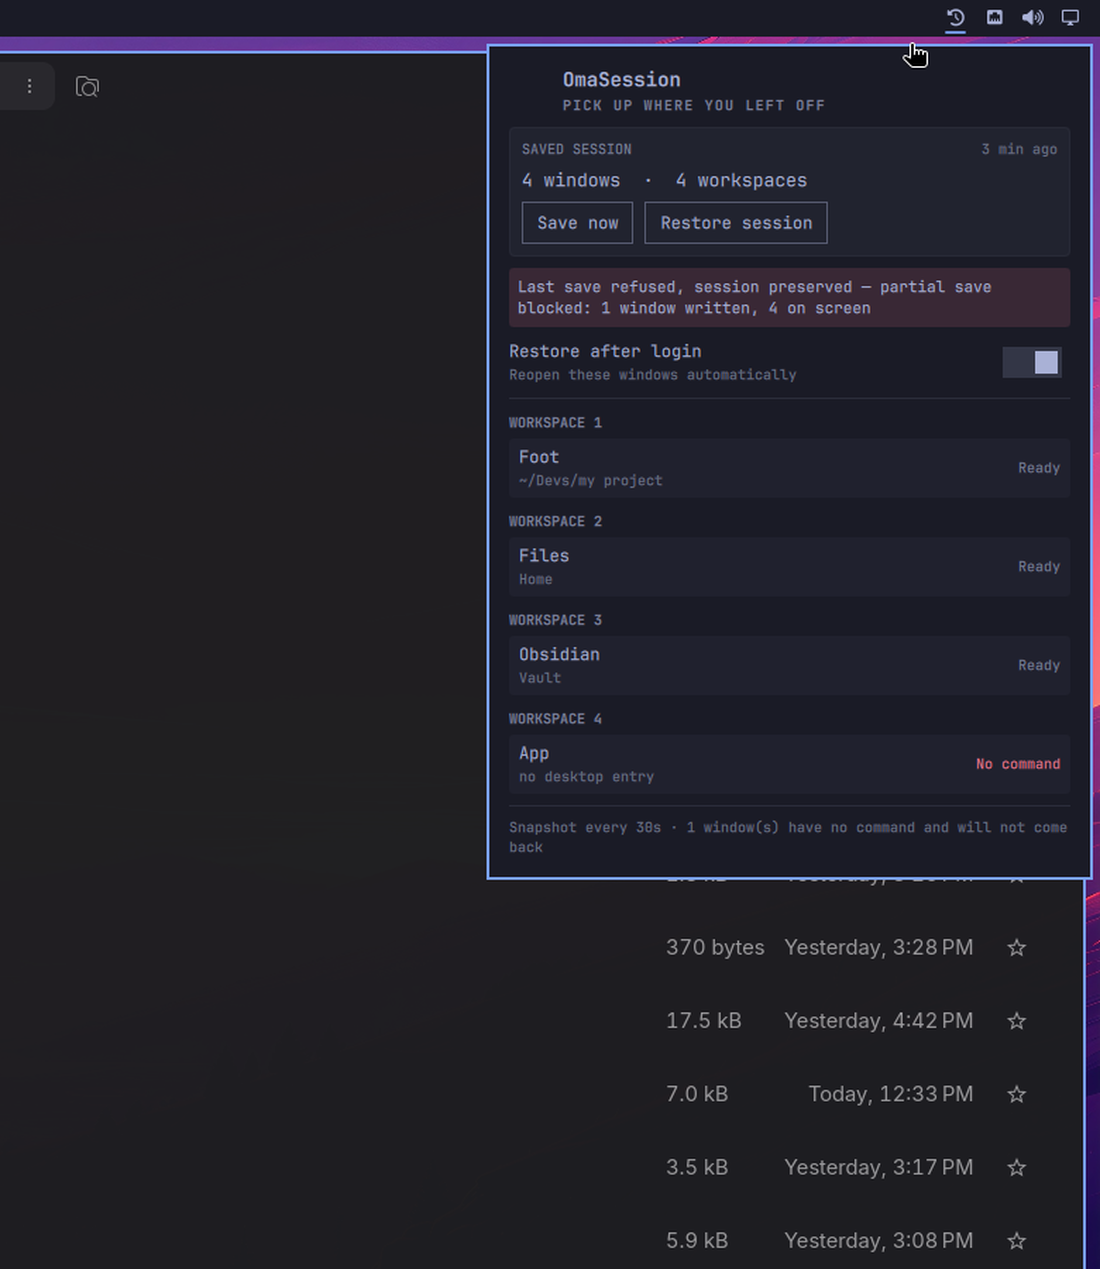
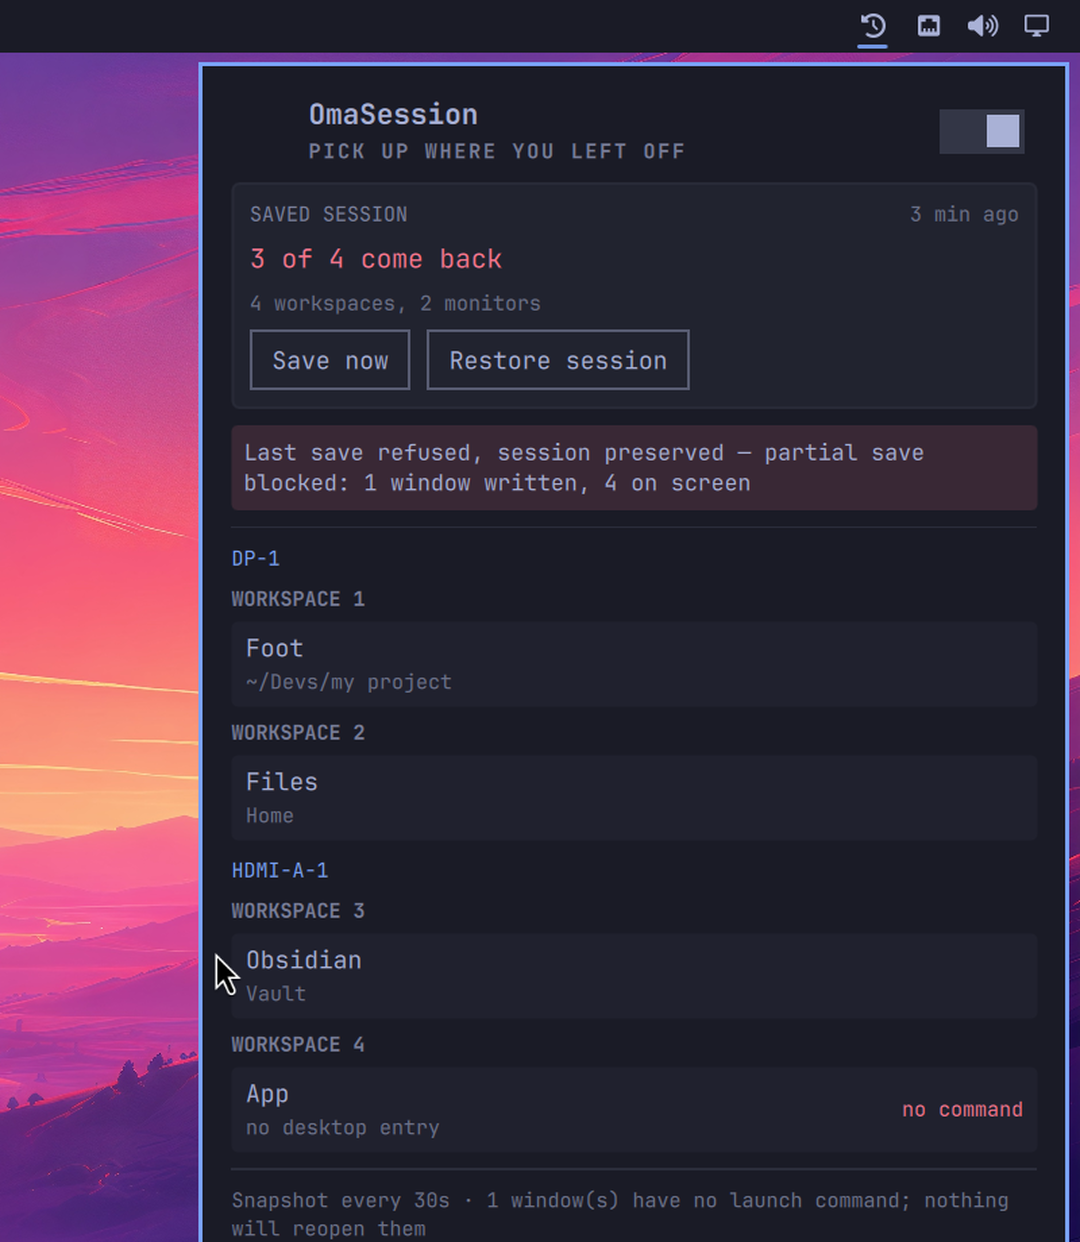
Panel: answer "what comes back", not "what did I have"
The layout had converged on the obvious one, which is also the one omaresume
already uses -- and looking the same is the least of it: an inventory answers a
question the screen already answers. Seconds before a reboot the question is
whether anything is about to be lost.

So the headline is a promise now: "All 4 come back", or "3 of 4 come back" in
red when it is not all. That is the one claim a launcher built on a fixed list
of applications cannot make, because it cannot tell "unsupported" from "will
work" -- our resolver can, and this is where that shows up for the user.

The per-row "Ready" is gone. Silence means it comes back; only the exception
speaks. A label repeated on every line is noise, and noise hides the single row
that needed to be seen before rebooting.

Each row now says what it will RECOVER rather than what it is: the directory for
a terminal, "tabs restored by the browser" for a browser. The window title was
inherited from the inventory framing and nobody recognises it after a reboot
anyway.

That needed a fact that dies with the session. lib/annotate.py runs at save
time, while the processes are still alive, and records each terminal's real
working directory -- or why it could not be had. After the reboot that
information exists nowhere, so a panel without it can only guess, and guessing
is what produces a uniform "Ready" over windows that will come back empty. A
terminal whose shell lives inside a tmux server is now labelled "directory not
[…]

diff --git a/Panel.qml b/Panel.qml
@@ -42,10 +42,10 @@ Panel {
       "windows": 4, "workspaces": 4, "agoSec": 42, "refused": false, "detail": "",
       "daemonActive": false, "intervalSec": 30, "restoreOnLogin": true,
       "captured": [
-        { "ws": 1, "mon": "DP-1", "cls": "foot",                 "app": "Foot",     "title": "~/Devs/my project",  "resolvable": true },
-        { "ws": 2, "mon": "DP-1", "cls": "org.gnome.Nautilus",   "app": "Files",    "title": "Home",               "resolvable": true },
-        { "ws": 3, "mon": "HDMI-A-1", "cls": "md.obsidian.Obsidian", "app": "Obsidian", "title": "Vault",          "resolvable": true },
-        { "ws": 4, "mon": "HDMI-A-1", "cls": "chromium",             "app": "Chromium", "title": "Hyprland Wiki",  "resolvable": true }
+        { "ws": 1, "mon": "DP-1", "cls": "foot",                 "app": "Foot",     "title": "~/Devs/my project",  "detail": "~/Devs/my project", "warn": "", "resolvable": true },
+        { "ws": 2, "mon": "DP-1", "cls": "org.gnome.Nautilus",   "app": "Files",    "title": "Home",               "detail": "", "warn": "", "resolvable": true },
+        { "ws": 3, "mon": "HDMI-A-1", "cls": "md.obsidian.Obsidian", "app": "Obsidian", "title": "Vault",          "detail": "", "warn": "", "resolvable": true },
+        { "ws": 4, "mon": "HDMI-A-1", "cls": "chromium",             "app": "Chromium", "title": "Hyprland Wiki",  "detail": "tabs restored by the browser", "warn": "", "resolvable": true }
       ]
     },
     "refused": {
@@ -53,17 +53,17 @@ Panel {
       "detail": "partial save blocked: 1 window written, 4 on screen",
       "daemonActive": false, "intervalSec": 30, "restoreOnLogin": true,
       "captured": [
-        { "ws": 1, "mon": "DP-1", "cls": "foot",                 "app": "Foot",     "title": "~/Devs/my project",  "resolvable": true },
-        { "ws": 2, "mon": "DP-1", "cls": "org.gnome.Nautilus",   "app": "Files",    "title": "Home",               "resolvable": true },
-        { "ws": 3, "mon": "HDMI-A-1", "cls": "md.obsidian.Obsidian", "app": "Obsidian", "title": "Vault",          "resolvable": true },
-        { "ws": 4, "mon": "HDMI-A-1", "cls": "some.unknown.App",     "app": "App",      "title": "no desktop entry", "resolvable": false }
+        { "ws": 1, "mon": "DP-1", "cls": "foot",                 "app": "Foot",     "title": "~/Devs/my project",  "detail": "~/Devs/my project", "warn": "", "resolvable": true },
+        { "ws": 2, "mon": "DP-1", "cls": "org.gnome.Nautilus",   "app": "Files",    "title": "Home",               "detail": "", "warn": "", "resolvable": true },
+        { "ws": 3, "mon": "HDMI-A-1", "cls": "md.obsidian.Obsidian", "app": "Obsidian", "title": "Vault",          "detail": "", "warn": "", "resolvable": true },
+        { "ws": 4, "mon": "HDMI-A-1", "cls": "some.unknown.App",     "app": "App",      "title": "no desktop entry", "detail": "", "warn": "", "resolvable": false }
       ]
     },
     "contested": {
       "windows": 1, "workspaces": 1, "agoSec": 8, "refused": false, "detail": "",
       "daemonActive": true, "intervalSec": 30, "restoreOnLogin": false,
       "captured": [
-        { "ws": 1, "mon": "DP-1", "cls": "foot", "app": "Foot", "title": "~/Devs/omasession", "resolvable": true }
+        { "ws": 1, "mon": "DP-1", "cls": "foot", "app": "Foot", "title": "tmux", "detail": "", "warn": "directory not recoverable", "resolvable": true }
       ]
     }
   })
@@ -103,6 +103,12 @@ Panel {
 
   readonly property bool multiMonitor: byMonitor.length > 1
 
+
+  readonly property int comingBack: {
+    var n = 0
+    for (var i = 0; i < captured.length; i++) if (captured[i].resolvable) n++
+    return n
+  }
 
   readonly property int unresolvable: {
     var n = 0
@@ -259,13 +265,30 @@ Panel {
               }
             }
 
+            // A pergunta que importa segundos antes de reiniciar não é
+            // "o que eu tenho aberto" -- isso está na tela. É "o que volta".
+            // Um inventário responde a primeira; este número responde a
+            // segunda, e é a única das duas que uma ferramenta com lista fixa
+            // de aplicativos não consegue responder, porque ela não distingue
+            // "não suportado" de "vai funcionar".
             Text {
-              text: root.windowCount + (root.windowCount === 1 ? " window" : " windows")
-                    + "  ·  " + root.workspaceCount
-                    + (root.workspaceCount === 1 ? " workspace" : " workspaces")
-              color: root.fg
+              text: root.comingBack === root.windowCount
+                    ? "All " + root.windowCount + " come back"
+                    : root.comingBack + " of " + root.windowCount + " come back"
+              color: root.unresolvable > 0 ? Color.urgent : root.fg
               font.family: Style.font.family
               font.pixelSize: Style.font.subtitle
+            }
+
+            Text {
+              width: parent.width
+              wrapMode: Text.WordWrap
+              text: root.workspaceCount
+                    + (root.workspaceCount === 1 ? " workspace" : " workspaces")
+                    + (root.multiMonitor ? ", " + root.byMonitor.length + " monitors" : "")
+              color: root.dim
+              font.family: Style.font.family
+              font.pixelSize: Style.font.caption
             }
 
             Row {
@@ -386,25 +409,33 @@ Panel {
                         font.family: Style.font.family
                         font.pixelSize: Style.font.body
                       }
+                      // O que esta linha vai RECUPERAR. Para um terminal é o
+                      // diretório -- e quando não dá para recuperá-lo, dizer
+                      // isso vale mais que repetir o título da janela, que
+                      // ninguém vai reconhecer depois do reboot de qualquer
+                      // forma.
                       Text {
                         width: parent.width
                         elide: Text.ElideRight
-                        text: modelData.title
+                        text: modelData.detail || modelData.title
                         color: root.dim
                         font.family: Style.font.family
                         font.pixelSize: Style.font.caption
                       }
                     }
 
-                    // "Ready" só onde o resolvedor achou um .desktop. Uma
-                    // janela que não volta tem de aparecer ANTES do reboot.
+                    // Silêncio significa "vai voltar". Só a exceção fala: um
+                    // rótulo repetido em toda linha é ruído, e ruído esconde
+                    // exatamente o caso que precisa ser visto antes do reboot.
                     Text {
                       id: statusText
                       anchors.right: parent.right
                       anchors.rightMargin: Style.space(7)
                       anchors.verticalCenter: parent.verticalCenter
-                      text: modelData.resolvable ? "Ready" : "No command"
-                      color: modelData.resolvable ? Qt.darker(root.fg, 1.4) : Color.urgent
+                      visible: text !== ""
+                      text: !modelData.resolvable ? "no command"
+                            : (modelData.warn || "")
+                      color: Color.urgent
                       font.family: Style.font.family
                       font.pixelSize: Style.font.caption
                     }
@@ -426,8 +457,9 @@ Panel {
           text: {
             var base = "Snapshot every " + root.intervalSec + "s"
             if (root.unresolvable > 0)
-              return base + " · " + root.unresolvable + " window(s) have no command and will not come back"
-            return base + " · Save now before rebooting"
+              return base + " · " + root.unresolvable
+                     + " window(s) have no launch command; nothing will reopen them"
+            return base
           }
         }
       }

diff --git a/lib/annotate.py b/lib/annotate.py
@@ -1,0 +1,37 @@
+#!/usr/bin/env python3
+"""Add to each saved window what only a live process can tell us.
+
+Two facts die with the session and cannot be recovered afterwards: the real
+working directory of a terminal, and the reason we could not get it. Recording
+them at save time is what lets the panel promise only what it can deliver --
+"~/Devs/api" for a window that will come back there, and "directory not
+recoverable" for one that will not, instead of a uniform "Ready" that is a
+guess in both cases.
+"""
+
+import json
+import sys
+from pathlib import Path
+
+sys.path.insert(0, str(Path(__file__).resolve().parent))
+import resolve as R  # noqa: E402
+
+
+def main() -> int:
+    doc = json.loads(Path(sys.argv[1]).read_text())
+    for w in doc.get("windows", []):
+        klass = w.get("class", "")
+        if klass not in R.TERMINAL_CWD_FLAG:
+            continue
+        pid = int(w.get("pid") or 0)
+        if not pid:
+            continue
+        cwd, why = R.child_cwd(pid)
+        w["cwd"] = cwd
+        w["cwdNote"] = why
+    json.dump(doc, sys.stdout)
+    return 0
+
+
+if __name__ == "__main__":
+    sys.exit(main())

diff --git a/lib/captured.py b/lib/captured.py
@@ -61,6 +61,11 @@ def main() -> int:
             "app": friendly(klass),
             "title": w.get("title", ""),
             "resolvable": klass.lower() in index,
+            # O que ESTA janela vai recuperar, não o que ela é. Vazio quando não
+            # há nada de especial a prometer.
+            "detail": w.get("cwd") or "",
+            "warn": ("" if w.get("cwd") or not w.get("cwdNote")
+                     else "directory not recoverable"),
         })
     json.dump(out, sys.stdout)
     return 0
